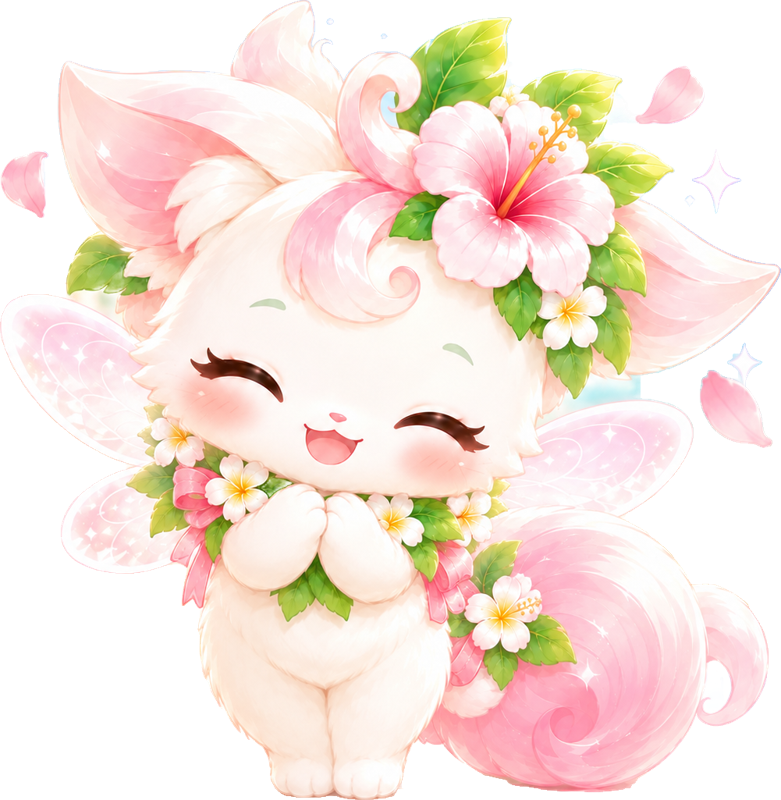
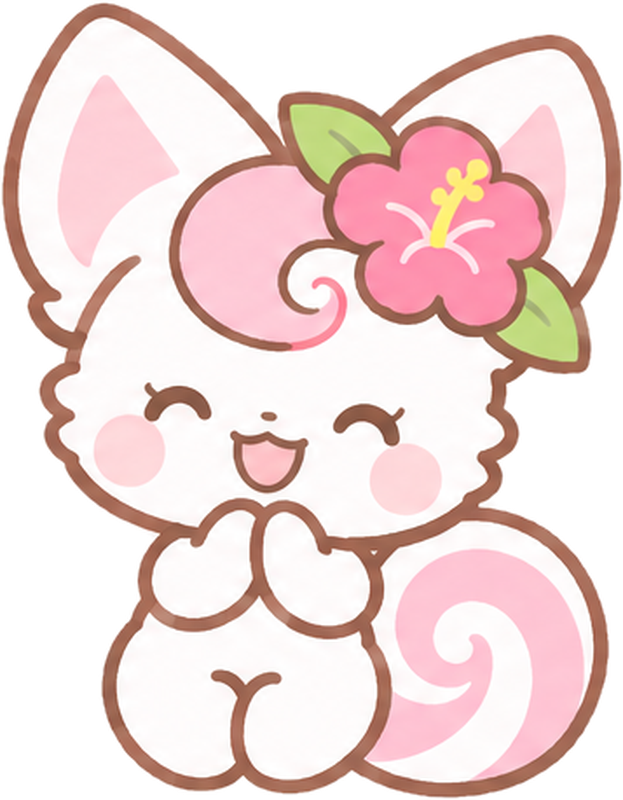
はるみちゃんをシンプル版の絵に差し替え（豪華版は chara-deluxe）／ブログに小さいアイコン＋吹き出し（kind talk）
Claude-Session: https://claude.ai/code/session_01CvngkNXDVJ9m4sc8tErocC

diff --git a/scripts/render-section.js b/scripts/render-section.js
@@ -153,6 +153,33 @@ body{background:radial-gradient(ellipse at ${LAY.glow},${C.c1} 0%,${C.c2} 45%,${
 </style></head><body>${dots}<div class="floor"></div><img class="chara" src="${img}">${bubble}</body></html>`;
 }
 
+// 記事の中の「会話の吹き出し」（2026-11-02 本人希望：大きい挿絵ではなく、ページの端に小さいアイコン＋吹き出し）
+// { "kind":"talk", "brand", "out", "say":"ひと言（40字くらいまで）", "side":"left"|"right"（任意。無ければ交互）, "mood":"worry"（任意）, "chara":"（任意）" }
+// 背景は透明（PNG）。ブログの白い背景になじむ。1200x300
+function talk(s, idx) {
+  const hg = s.brand === "haguruma";
+  const seed = path.basename(String(s.out || "")).replace(/-img\w+\.\w+$/, "");
+  const worry = s.mood === "worry";
+  const chara = s.chara || (hg ? (worry ? "komari" : HG.pick("section", seed, idx)) : (worry ? "shonbori" : CH.pick("mini", seed, idx)));
+  const img = hg ? HG.dataUri(chara) : CH.dataUri(chara);
+  const C = hg ? { ring:"#BFE3CB", fill:"#EEF8F1", ink:"#16382A", name:"#22994F", line:"#BFE3CB" } : { ring:"#F3C9D3", fill:"#FFF3F5", ink:"#3A2E2E", name:"#D9668A", line:"#F3C9D3" };
+  const name = hg ? "はぐるん" : "はるみちゃん";
+  const right = s.side ? s.side === "right" : idx % 2 === 1;
+  const say = String(s.say || "");
+  const fz = say.length > 28 ? 34 : 38;
+  return `<!doctype html><html><head><meta charset="utf-8"><style>${BASE}
+html,body{background:transparent}
+body{width:1200px;height:300px;display:flex;align-items:center;gap:34px;padding:0 40px;flex-direction:${right ? "row-reverse" : "row"}}
+.who{flex:0 0 210px;display:flex;flex-direction:column;align-items:center;gap:8px}
+.ic{width:200px;height:200px;border-radius:50%;background:${C.fill};border:6px solid ${C.ring};overflow:hidden;display:flex;align-items:flex-start;justify-content:center}
+.ic img{width:${hg ? 118 : 104}%;margin-top:${hg ? 6 : 3}%}
+.nm{font-weight:700;font-size:24px;color:${C.name}}
+.bubble{position:relative;flex:0 1 auto;max-width:880px;background:#fff;border:4px solid ${C.line};border-radius:36px;padding:30px 42px;font-size:${fz}px;font-weight:700;color:${C.ink};line-height:1.55;word-break:keep-all;overflow-wrap:anywhere}
+.bubble::before{content:"";position:absolute;top:50%;margin-top:-20px;${right ? "right:-34px;border-left:34px solid " + C.line : "left:-34px;border-right:34px solid " + C.line};border-top:20px solid transparent;border-bottom:20px solid transparent}
+.bubble::after{content:"";position:absolute;top:50%;margin-top:-15px;${right ? "right:-26px;border-left:27px solid #fff" : "left:-26px;border-right:27px solid #fff"};border-top:15px solid transparent;border-bottom:15px solid transparent}
+</style></head><body><div class="who"><div class="ic"><img src="${img}"></div><div class="nm">${name}</div></div><div class="bubble">${esc(say)}</div></body></html>`;
+}
+
 (async () => {
   const specs = JSON.parse(fs.readFileSync(process.argv[2], "utf8"));
   const b = await chromium.launch({ executablePath: "/opt/pw-browsers/chromium" });
@@ -160,6 +187,14 @@ body{background:radial-gradient(ellipse at ${LAY.glow},${C.c1} 0%,${C.c2} 45%,${
   let hi = 0;
   for (const s of specs) {
     fs.mkdirSync(path.dirname(path.resolve(s.out)), { recursive: true });
+    if (s.kind === "talk") {
+      await p.setViewportSize({ width: 1200, height: 300 });
+      await p.setContent(talk(s, hi++), { waitUntil: "load" });
+      await p.evaluate(() => document.fonts.ready);
+      await p.screenshot({ path: s.out, type: "png", omitBackground: true });
+      await p.setViewportSize({ width: 1200, height: 675 });
+      console.log(s.out); continue;
+    }
     await p.setContent(s.kind === "illust" ? illust(s, hi++) : s.kind === "table" ? table(s) : (s.brand === "haguruma" ? haguruma(s, hi++) : halulu(s)), { waitUntil: "load" });
     await p.evaluate(() => document.fonts.ready);
     await p.screenshot({ path: s.out, type: "png" });

diff --git a/scripts/chara.js b/scripts/chara.js
@@ -5,10 +5,11 @@ const path = require("path");
 const DIR = path.join(__dirname, "..", "assets", "chara");
 
 const POOLS = {
-  cover: ["bikkuri", "uttori", "nikkori", "wink", "suwari"], // 問いかけ・気づき（悲しい顔は不安テーマ専用）
-  end: ["genki", "jump", "waai", "wink-heart", "nikoniko"],            // 予約への呼びかけ
-  mini: ["nikkori", "suwari", "wink", "uttori", "genki", "nikoniko", "oyasumi", "waai"],
-  thumb: ["nikkori", "suwari", "uttori", "wink", "genki", "nikoniko", "waai", "wink-heart", "jump"],
+  // 2026-11-02 シンプル版の絵に差し替え（豪華版は assets/chara-deluxe）。kanban（白い看板）・punpun（ぷんぷん）は指定したときだけ使う
+  cover: ["bikkuri", "uttori", "nikkori", "wink", "suwari", "kangae", "point", "mushimegane", "kira"], // 問いかけ・気づき（悲しい顔は不安テーマ専用）
+  end: ["genki", "jump", "waai", "wink-heart", "nikoniko", "peko"],            // 予約への呼びかけ
+  mini: ["nikkori", "suwari", "wink", "uttori", "genki", "nikoniko", "oyasumi", "waai", "point", "hamigaki", "kihon"],
+  thumb: ["nikkori", "suwari", "uttori", "wink", "genki", "nikoniko", "waai", "wink-heart", "jump", "kira", "point"],
 };
 const NAMES = fs.readdirSync(DIR).filter(f => f.endsWith(".png")).map(f => f.replace(/\.png$/, ""));
 const hash = s => {

diff --git a/scripts/render-halulu.js b/scripts/render-halulu.js
@@ -129,8 +129,8 @@ b{color:${T.deep};font-weight:700}
 }
 
 let COVER_LAYOUT = 0, COVER_POSE = null;
-const COVER_POSES = ["bikkuri", "uttori", "nikkori", "genki", "wink", "waai", "suwari", "jump", "nikoniko", "wink-heart"];
-const WORRY_POSES = ["shonbori", "bikkuri", "suwari", "nikoniko"];
+const COVER_POSES = ["bikkuri", "uttori", "nikkori", "genki", "wink", "waai", "suwari", "jump", "nikoniko", "wink-heart", "kangae", "point", "mushimegane", "kira", "hamigaki"];
+const WORRY_POSES = ["shonbori", "kangae", "bikkuri", "suwari", "nikoniko"];
 function slideHTML(s, i, n, seed, T) {
   const K = decoKit(T);
   const LOGO = `<div class="logo">${K.SPROUT(64)}<span>Halulu<span class="jp">渋谷歯科</span></span><svg class="logoline" width="460" height="40" viewBox="0 0 460 40"><path d="M4 20 C120 8 300 6 456 30" stroke="#D9B3A8" stroke-width="2.5" fill="none"/></svg><span class="lheart">${K.HEART(26)}</span></div>`;
